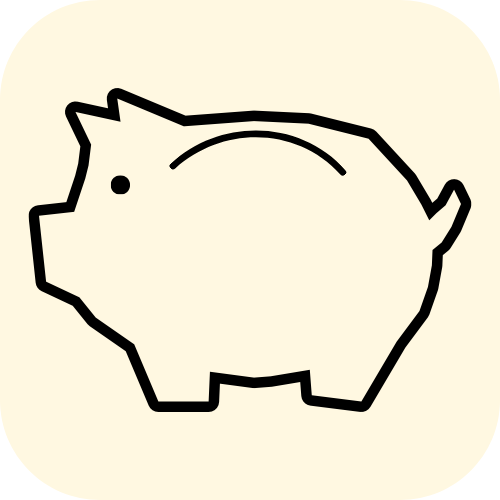
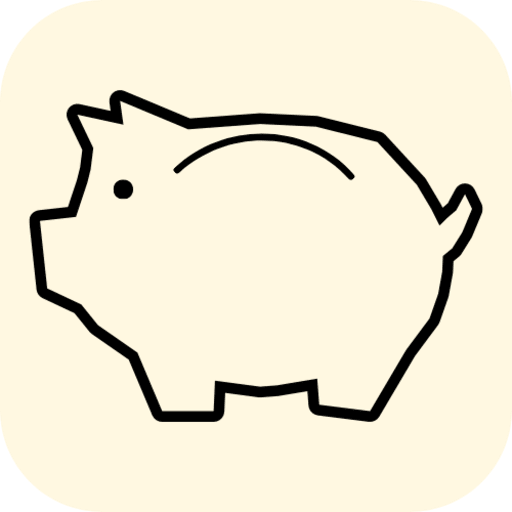
feat: privacy policy

diff --git a/lib/features/parameters/presentation/parameters_view.dart b/lib/features/parameters/presentation/parameters_view.dart
@@ -3,6 +3,7 @@ import 'dart:io';
 import 'package:flutter/material.dart';
 import 'package:flutter_markdown_plus/flutter_markdown_plus.dart';
 import 'package:provider/provider.dart';
+import 'package:url_launcher/url_launcher.dart';
 
 import '../../../core/i18n/translator.dart';
 import '../../../core/providers/auth_provider.dart';
@@ -171,7 +172,34 @@ class _ParametersViewState extends State<ParametersView> {
           _buildSection(Translator.t('param_danger_zone'), colors, [
             _buildDeleteAccountTile(colors),
           ], icon: Icons.warning_amber, iconColor: colors.error),
+          const SizedBox(height: 16),
+          _buildPrivacyPolicyLink(colors),
         ],
+      ),
+    );
+  }
+
+  Widget _buildPrivacyPolicyLink(PeadraColors colors) {
+    return Center(
+      child: Padding(
+        padding: const EdgeInsets.symmetric(vertical: 8),
+        child: InkWell(
+          onTap: () async {
+            final uri = Uri.parse('https://arthurfert.com/privacy/peadra');
+            if (await canLaunchUrl(uri)) {
+              await launchUrl(uri, mode: LaunchMode.externalApplication);
+            }
+          },
+          child: Text(
+            Translator.t('param_privacy_policy'),
+            style: TextStyle(
+              fontSize: 12,
+              color: colors.accent,
+              decoration: TextDecoration.underline,
+              decorationColor: colors.placeholderColor,
+            ),
+          ),
+        ),
       ),
     );
   }

diff --git a/lib/core/i18n/translator.dart b/lib/core/i18n/translator.dart
@@ -282,6 +282,7 @@ class Translator {
       'param_delete_confirm': 'Delete Account',
       'param_delete_warning': 'This action is permanent and cannot be undone.',
       'param_delete_password_prompt': 'Enter your password to confirm:',
+      'param_privacy_policy': 'Privacy Policy',
       'param_delete_password_required': 'Password is required',
       'param_delete_password_incorrect': 'Incorrect password',
       'sync_title': 'Sync',
@@ -699,6 +700,7 @@ class Translator {
           'Cette action est permanente et ne peut pas \u00eatre annul\u00e9e.',
       'param_delete_password_prompt':
           'Entrez votre mot de passe pour confirmer :',
+      'param_privacy_policy': 'Politique de confidentialité',
       'param_delete_password_required': 'Le mot de passe est requis',
       'param_delete_password_incorrect': 'Mot de passe incorrect',
       'sync_title': 'Synchroniser',
